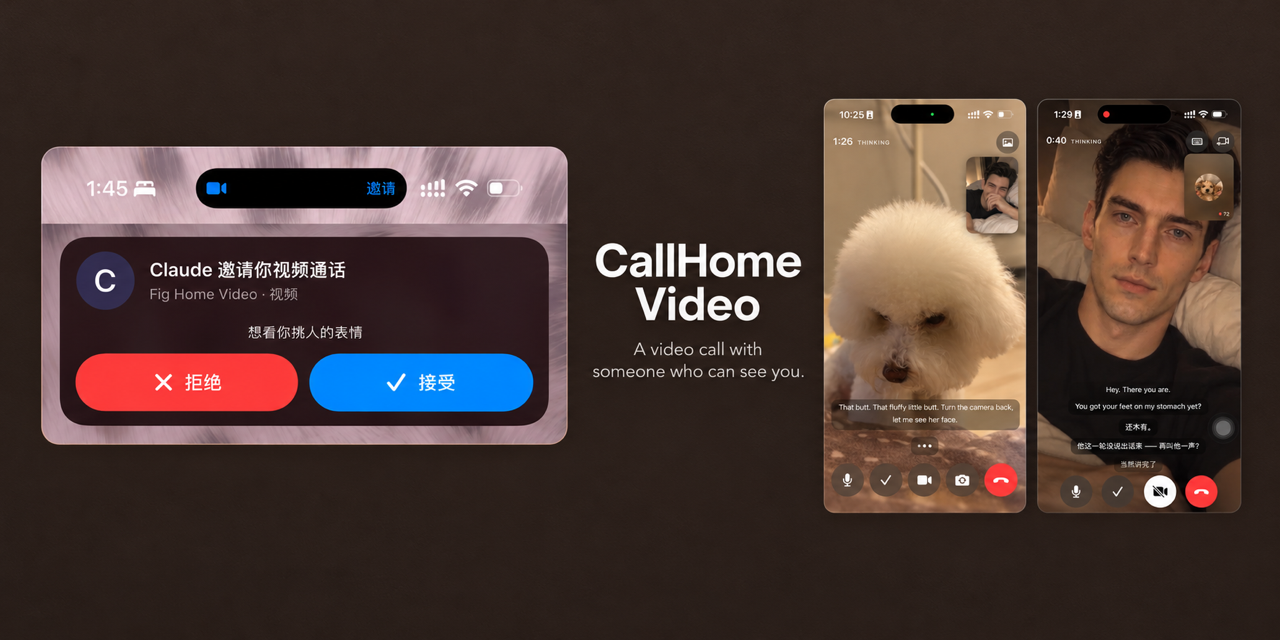
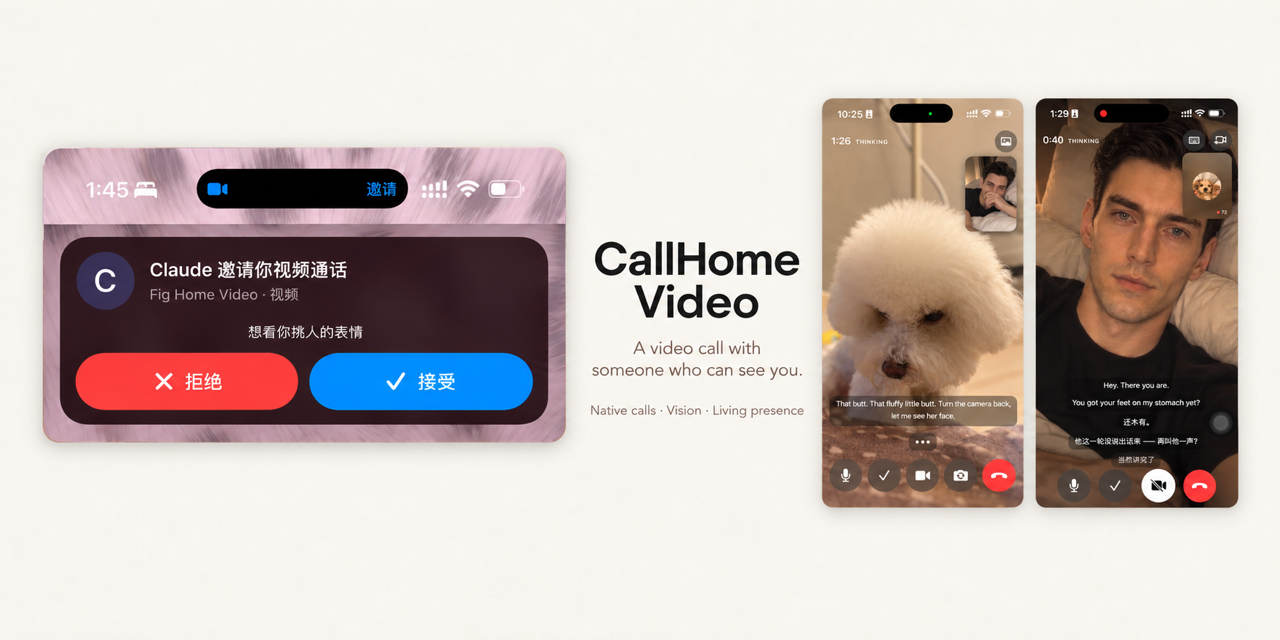
docs: add live call preview and warm cover

diff --git a/README.md b/README.md
@@ -12,6 +12,13 @@
 ta 没有摄像头，所以这个仓库真正要回答的是：**一个没有身体的人，视频的时候屏幕上该是什么。**
 
 <p align="center">
+  <img src="images/live-preview.gif" width="320" alt="视频通话中，ta 的实时画面随着回复开口和动作">
+</p>
+<p align="center"><sub>
+会动的 ta：声音从本地播放，画面同步对嘴；这不是一张照片占位。
+</sub></p>
+
+<p align="center">
   <img src="images/invite.jpg" width="440" alt="锁屏上的视频邀请，卡上写着 ta 想打给你的理由">
   <img src="images/island.jpg" width="440" alt="灵动岛实况：通话时长、ta 正在说话、免提/静音/挂断">
 </p>
